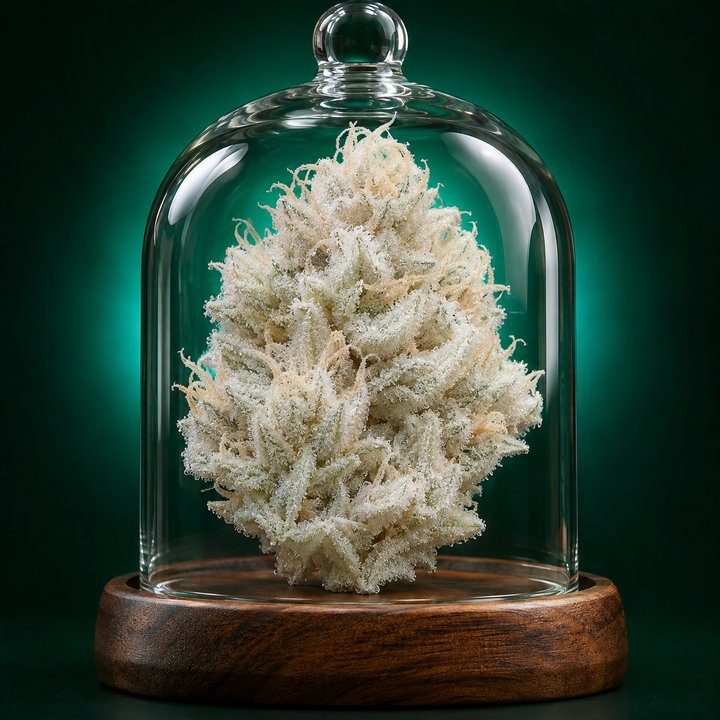
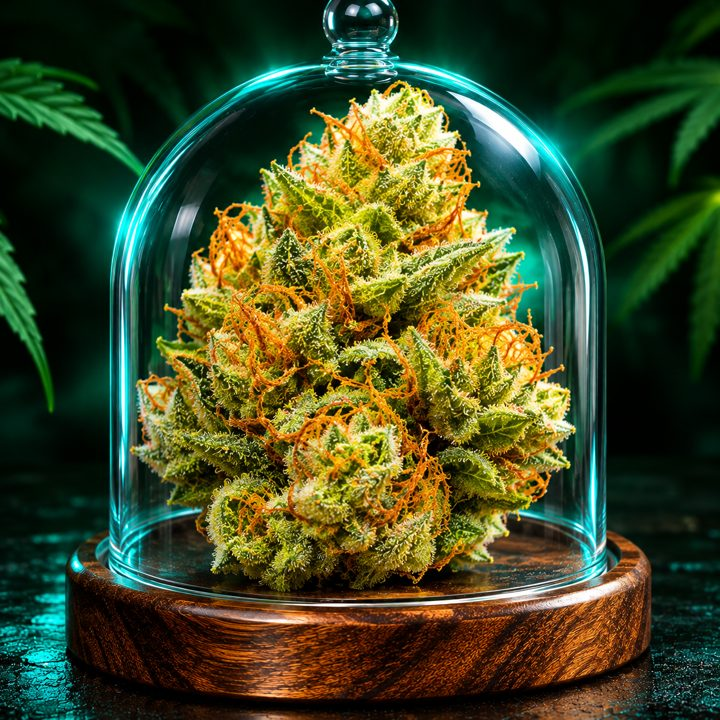
fix(audit): Purple vraiment violet, Ivory=bud blanc givré, Euphoria=bud vert fruité (images vérifiées), cache-buster v3
Claude-Session: https://claude.ai/code/session_013qN9ZBJyNKX1SmCYk9yt3j

diff --git a/cbd-claude/app.js b/cbd-claude/app.js
@@ -3,7 +3,7 @@
    Données fleurs RÉELLES (prix proprio). Profils = goût, jamais d'effet.
    =========================================================== */
 
-const IMGV = "?v=2"; /* cache-buster images (bump si régénération) */
+const IMGV = "?v=3"; /* cache-buster images (bump si régénération) */
 const FLEURS = [
   { slug:"nimbus-3000", nom:"Nimbus 3000", tier:"boostes", desc:"Givrée ❄", c:["#eafce0","#8fd08a"], p:[15,42,70,130,260] },
   { slug:"ivory", nom:"Ivory", tier:"boostes", desc:"Douce 🤍", c:["#f3f1dd","#b7cf9a"], p:[15,42,70,130,260] },

diff --git a/cbd-claude/bientot.html b/cbd-claude/bientot.html
@@ -15,6 +15,6 @@
   <div id="bientot"></div>
 </main>
 <footer data-chrome="footer"></footer><div data-chrome="advisor"></div><nav data-chrome="botnav"></nav>
-<script src="app.js?v=7"></script>
+<script src="app.js?v=8"></script>
 </body>
 </html>

diff --git a/cbd-claude/404.html b/cbd-claude/404.html
@@ -20,6 +20,6 @@
   </div>
 </main>
 <footer data-chrome="footer"></footer><div data-chrome="advisor"></div><nav data-chrome="botnav"></nav>
-<script src="app.js?v=7"></script>
+<script src="app.js?v=8"></script>
 </body>
 </html>

diff --git a/cbd-claude/cgv.html b/cbd-claude/cgv.html
@@ -37,6 +37,6 @@
   </div>
 </main>
 <footer data-chrome="footer"></footer><div data-chrome="advisor"></div><nav data-chrome="botnav"></nav>
-<script src="app.js?v=7"></script>
+<script src="app.js?v=8"></script>
 </body>
 </html>

diff --git a/cbd-claude/confidentialite.html b/cbd-claude/confidentialite.html
@@ -29,6 +29,6 @@
   </div>
 </main>
 <footer data-chrome="footer"></footer><div data-chrome="advisor"></div><nav data-chrome="botnav"></nav>
-<script src="app.js?v=7"></script>
+<script src="app.js?v=8"></script>
 </body>
 </html>

diff --git a/cbd-claude/contact.html b/cbd-claude/contact.html
@@ -30,6 +30,6 @@
   </div>
 </main>
 <footer data-chrome="footer"></footer><div data-chrome="advisor"></div><nav data-chrome="botnav"></nav>
-<script src="app.js?v=7"></script>
+<script src="app.js?v=8"></script>
 </body>
 </html>

diff --git a/cbd-claude/faq.html b/cbd-claude/faq.html
@@ -24,6 +24,6 @@
   </div>
 </main>
 <footer data-chrome="footer"></footer><div data-chrome="advisor"></div><nav data-chrome="botnav"></nav>
-<script src="app.js?v=7"></script>
+<script src="app.js?v=8"></script>
 </body>
 </html>

diff --git a/cbd-claude/mentions-legales.html b/cbd-claude/mentions-legales.html
@@ -34,6 +34,6 @@
   </div>
 </main>
 <footer data-chrome="footer"></footer><div data-chrome="advisor"></div><nav data-chrome="botnav"></nav>
-<script src="app.js?v=7"></script>
+<script src="app.js?v=8"></script>
 </body>
 </html>

diff --git a/cbd-claude/checkout.html b/cbd-claude/checkout.html
@@ -17,6 +17,6 @@
 <footer data-chrome="footer"></footer>
 <div data-chrome="advisor"></div>
 <nav data-chrome="botnav"></nav>
-<script src="app.js?v=7"></script>
+<script src="app.js?v=8"></script>
 </body>
 </html>

diff --git a/cbd-claude/confirmation.html b/cbd-claude/confirmation.html
@@ -17,6 +17,6 @@
 <footer data-chrome="footer"></footer>
 <div data-chrome="advisor"></div>
 <nav data-chrome="botnav"></nav>
-<script src="app.js?v=7"></script>
+<script src="app.js?v=8"></script>
 </body>
 </html>

diff --git a/cbd-claude/fleurs.html b/cbd-claude/fleurs.html
@@ -31,6 +31,6 @@
 <footer data-chrome="footer"></footer>
 <div data-chrome="advisor"></div>
 <nav data-chrome="botnav"></nav>
-<script src="app.js?v=7"></script>
+<script src="app.js?v=8"></script>
 </body>
 </html>

diff --git a/cbd-claude/panier.html b/cbd-claude/panier.html
@@ -20,6 +20,6 @@
 <footer data-chrome="footer"></footer>
 <div data-chrome="advisor"></div>
 <nav data-chrome="botnav"></nav>
-<script src="app.js?v=7"></script>
+<script src="app.js?v=8"></script>
 </body>
 </html>
